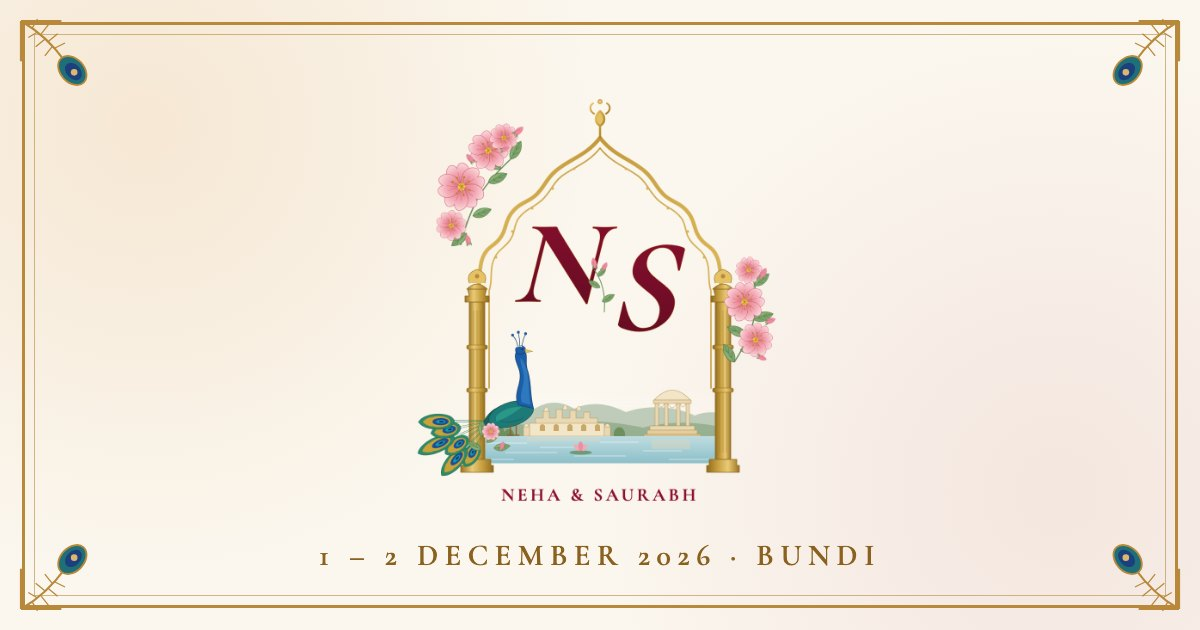
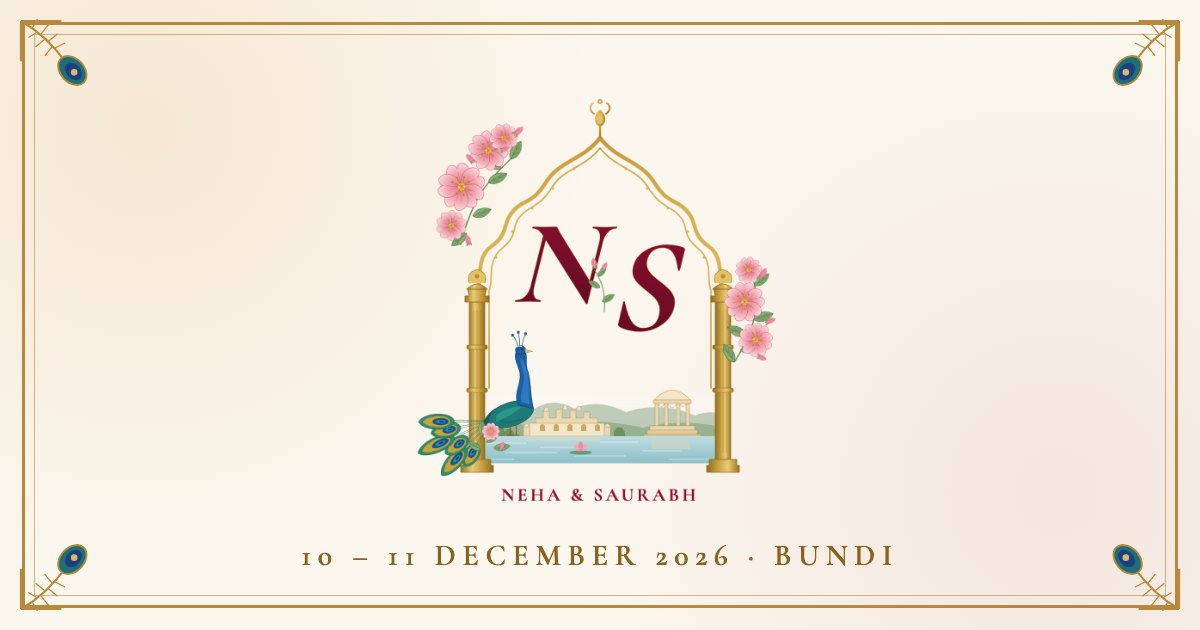
Change wedding dates to 10 & 11 December 2026

Changed region(s): [[0.3083, 0.8444, 0.74, 0.9048], [0.2467, 0.8746, 0.2775, 0.9048]]

diff --git a/index.html b/index.html
@@ -3,21 +3,21 @@
 <head>
 <meta charset="utf-8">
 <meta name="viewport" content="width=device-width, initial-scale=1, viewport-fit=cover">
-<title>Saurabh & Neha · 1–2 December 2026 · Bundi</title>
+<title>Saurabh & Neha · 10–110 December 2026 · Bundi</title>
 <meta name="description" content="You are invited to our wedding celebrations">
 <meta name="theme-color" content="#6B1E2E">
 
 <!-- Open Graph / WhatsApp preview (absolute URLs are required) -->
 <meta property="og:type" content="website">
 <meta property="og:url" content="https://devrathi46.github.io/neha-saurabh-wedding/">
-<meta property="og:title" content="Saurabh & Neha · 1–2 December 2026 · Bundi">
+<meta property="og:title" content="Saurabh & Neha · 10–110 December 2026 · Bundi">
 <meta property="og:description" content="You are invited to our wedding celebrations">
 <meta property="og:image" content="https://devrathi46.github.io/neha-saurabh-wedding/assets/og-image.jpg">
 <meta property="og:image:width" content="1200">
 <meta property="og:image:height" content="630">
 <meta property="og:image:alt" content="Saurabh & Neha wedding logo on ivory with a gold border">
 <meta name="twitter:card" content="summary_large_image">
-<meta name="twitter:title" content="Saurabh & Neha · 1–2 December 2026 · Bundi">
+<meta name="twitter:title" content="Saurabh & Neha · 10–110 December 2026 · Bundi">
 <meta name="twitter:description" content="You are invited to our wedding celebrations">
 <meta name="twitter:image" content="https://devrathi46.github.io/neha-saurabh-wedding/assets/og-image.jpg">
 
@@ -394,7 +394,7 @@ p,h2,h3{text-wrap:balance}
       <span class="env-card" aria-hidden="true">
         <span class="medallion"><img src="assets/logo-web.webp" alt="" width="200" height="200"></span>
         <span class="ec-names">Saurabh &amp; Neha</span>
-        <span class="ec-date">1 · 2 December 2026</span>
+        <span class="ec-date">10 · 11 December 2026</span>
         <span class="ec-date" style="margin-top:2px">Bundi</span>
       </span>
       <span class="env-front">
@@ -469,7 +469,7 @@ p,h2,h3{text-wrap:balance}
   <section class="dates" id="dates" aria-labelledby="datesTitle">
     <svg class="divider" aria-hidden="true"><use href="#lotusDiv"/></svg>
     <span class="kicker">Save the dates</span>
-    <h2 class="date-big reveal" id="datesTitle">1 &amp; 2 December 2026</h2>
+    <h2 class="date-big reveal" id="datesTitle">10 &amp; 11 December 2026</h2>
     <p class="date-venue reveal" style="--d:1">Classic Sapphire Ananta, Bundi</p>
     <div class="cd reveal" style="--d:2" id="countdown" role="timer" aria-label="Countdown to the wedding">
       <div class="tile"><b id="cdD">--</b><span>Days</span></div>
@@ -582,7 +582,7 @@ p,h2,h3{text-wrap:balance}
         <p class="ev-k">Haldi</p>
         <h3>Rangon Ki Subah</h3>
         <dl>
-          <div><dt>When</dt><dd>1 December 2026 · 11:00 AM</dd></div>
+          <div><dt>When</dt><dd>10 December 2026 · 11:00 AM</dd></div>
           <div><dt>Dress code</dt><dd>Playful pastels and cheerful daytime colours</dd></div>
         </dl>
       </div>
@@ -658,7 +658,7 @@ p,h2,h3{text-wrap:balance}
         <p class="ev-k">Sangeet</p>
         <h3>Mehfil After Dark</h3>
         <dl>
-          <div><dt>When</dt><dd>1 December 2026 · 7:00 PM onwards</dd></div>
+          <div><dt>When</dt><dd>10 December 2026 · 7:00 PM onwards</dd></div>
           <div><dt>Dress code</dt><dd>Glamorous festive wear with a touch of sparkle</dd></div>
         </dl>
       </div>
@@ -723,7 +723,7 @@ p,h2,h3{text-wrap:balance}
         <p class="ev-k">Baraat · Varmala · Phere</p>
         <h3>Shubh Milan</h3>
         <dl>
-          <div><dt>When</dt><dd>2 December 2026 · 9:00 AM onwards</dd></div>
+          <div><dt>When</dt><dd>11 December 2026 · 9:00 AM onwards</dd></div>
           <div><dt>Dress code</dt><dd>Traditional Indian attire</dd></div>
         </dl>
       </div>
@@ -783,7 +783,7 @@ p,h2,h3{text-wrap:balance}
         <p class="ev-k">Reception</p>
         <h3>The Ivory Gala</h3>
         <dl>
-          <div><dt>When</dt><dd>2 December 2026 · 7:00 PM onwards</dd></div>
+          <div><dt>When</dt><dd>11 December 2026 · 7:00 PM onwards</dd></div>
           <div><dt>Dress code</dt><dd>Elegant evening formals</dd></div>
         </dl>
       </div>
@@ -911,7 +911,7 @@ p,h2,h3{text-wrap:balance}
     //   Responses sheet / Edit form: printed by tools/google-form.gs when you run it (see README)
     WHATSAPP_NUMBER: '',     // [PLACEHOLDER NUMBER] digits only with country code, e.g. '919876543210'
     MUSIC_SRC: 'assets/music.mp3', // royalty-free shehnai/santoor track; a gentle built-in santoor tune plays if missing
-    WEDDING_START: '2026-12-01T11:00:00+05:30',
+    WEDDING_START: '2026-12-10T11:00:00+05:30',
     // Artwork you've added to assets/img/ (file names without extension), e.g. ['haldi', 'couple']
     ART: []
   };
@@ -1103,7 +1103,7 @@ p,h2,h3{text-wrap:balance}
 
   $('#shareBtn').addEventListener('click', async () => {
     const url = location.href.split('#')[0];
-    const text = "You're invited to Saurabh & Neha's wedding · 1–2 December 2026 · Bundi";
+    const text = "You're invited to Saurabh & Neha's wedding · 10–110 December 2026 · Bundi";
     if (navigator.share) {
       try { await navigator.share({ title: document.title, text, url }); } catch (e) {}
     } else {

diff --git a/tools/og.html b/tools/og.html
@@ -27,5 +27,5 @@
 <svg class="corner tl"><use href="#pk"/></svg><svg class="corner tr"><use href="#pk"/></svg>
 <svg class="corner bl"><use href="#pk"/></svg><svg class="corner br"><use href="#pk"/></svg>
 <img class="logo" src="../assets/logo.png" alt="">
-<div class="line">1 – 2 December 2026 · Bundi</div>
+<div class="line">10 – 11 December 2026 · Bundi</div>
 </body></html>

diff --git a/README.md b/README.md
@@ -61,7 +61,7 @@ Make changes one small request at a time, and check each one in the local previe
 - "The tap to open is not intuitive, show some animation. Show me in local first."
 - "Once I reload the page and tap again, the page should start from the top"
 - "Remove venue from the event cards"
-- "Change the example arrival time to 1 Dec, around 9 AM"
+- "Change the example arrival time to 10 Dec, around 9 AM"
 
 ### 4. Publish
 
